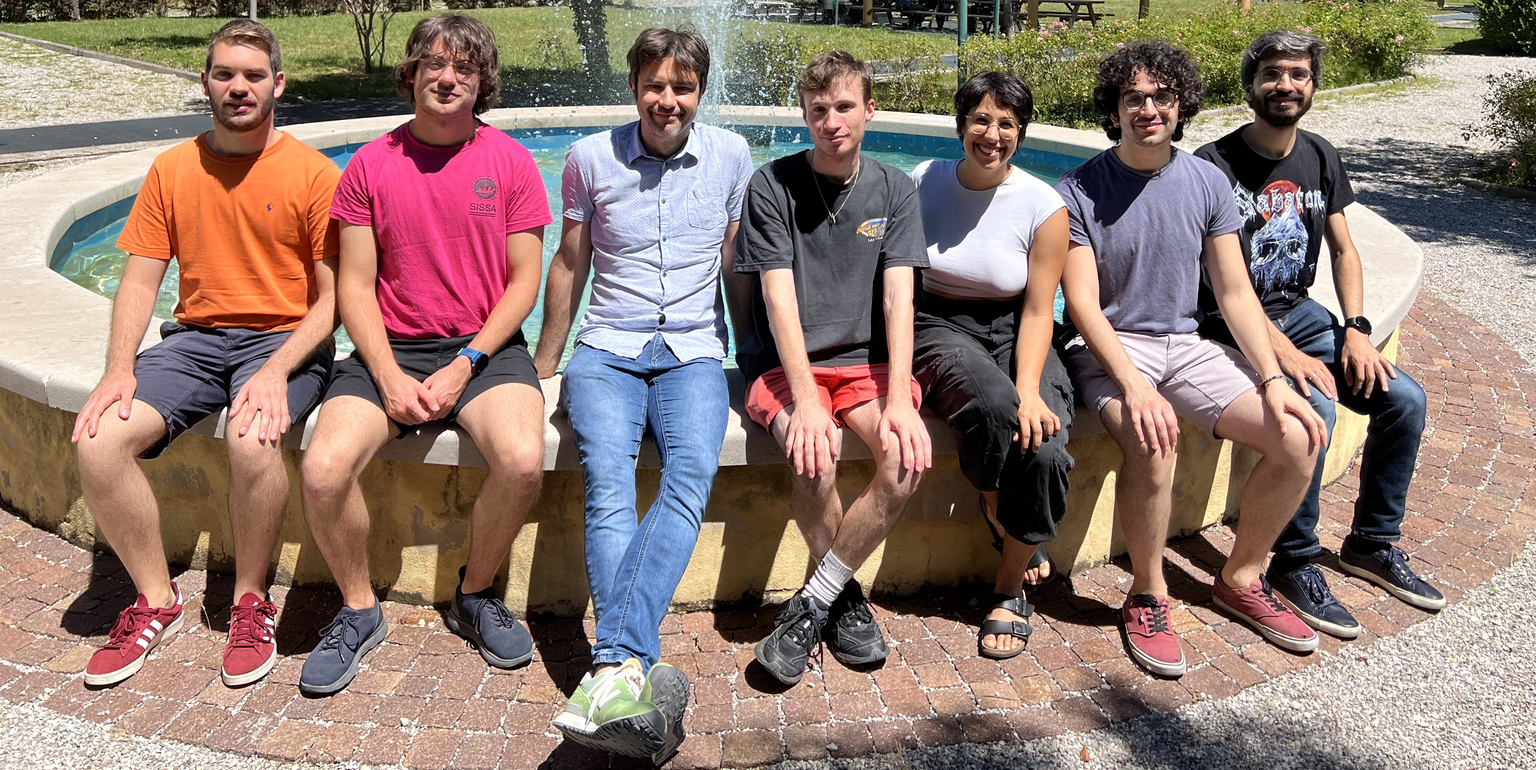
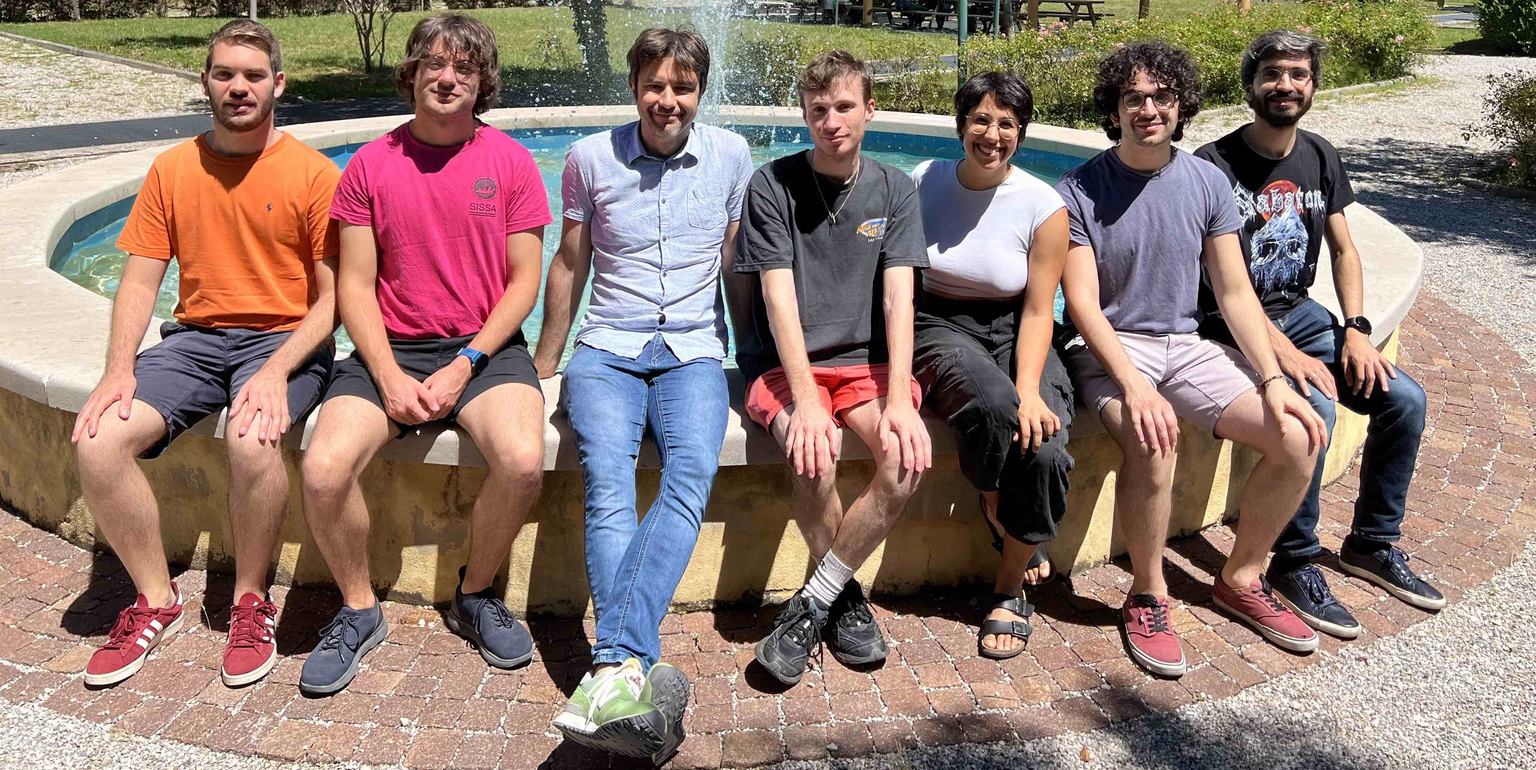
more

diff --git a/people.md b/people.md
@@ -73,10 +73,12 @@ title: People
 
 .group-picture {
   display: block;
-  max-width: 50%; /* Adjust to match your menu width */
+  max-width: 400px; /* Adjust to match menu width */
   width: 100%;
   height: auto;
-  margin: 20px auto;
+  margin: 20px auto; /* Center the image */
+  border-radius: 15px; /* Rounded corners */
+  box-shadow: 0px 4px 10px rgba(0, 0, 0, 0.2); /* Soft shadow */
 }
 
 </style>
